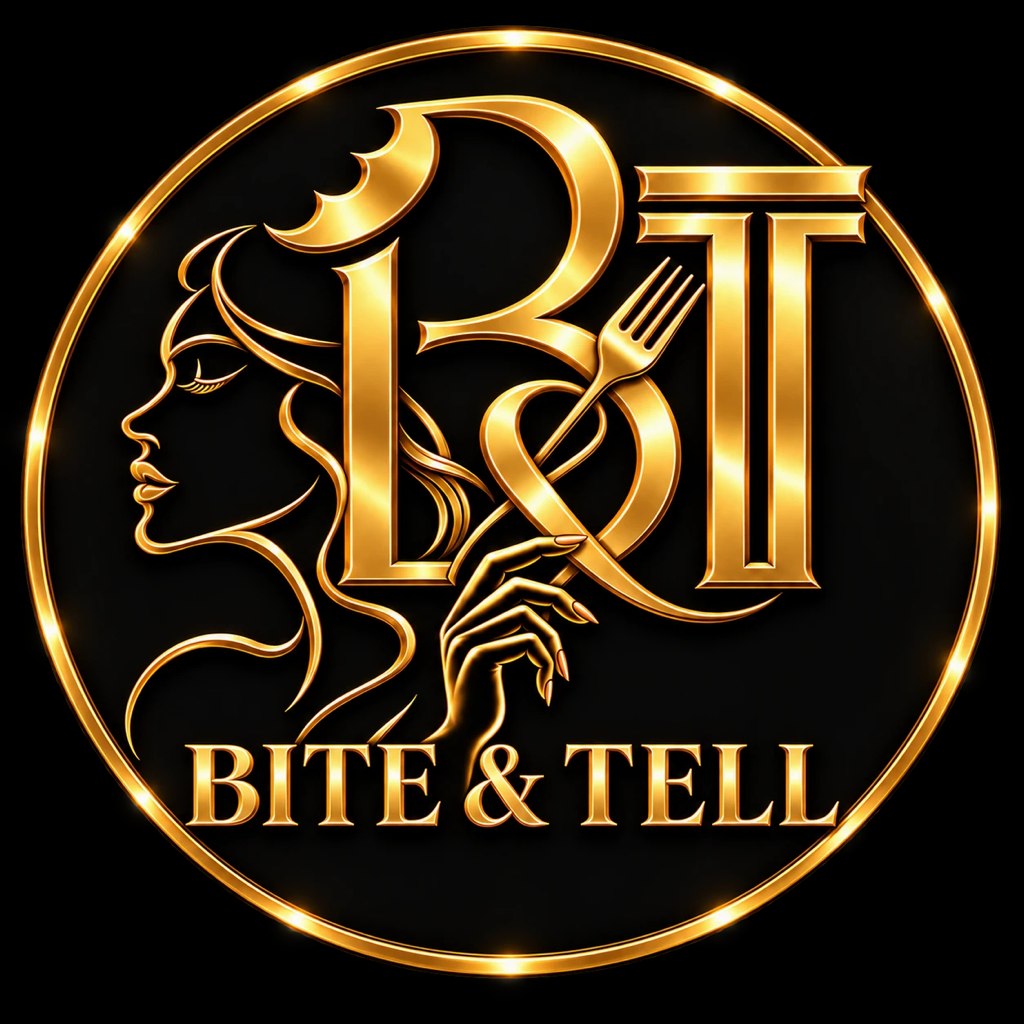
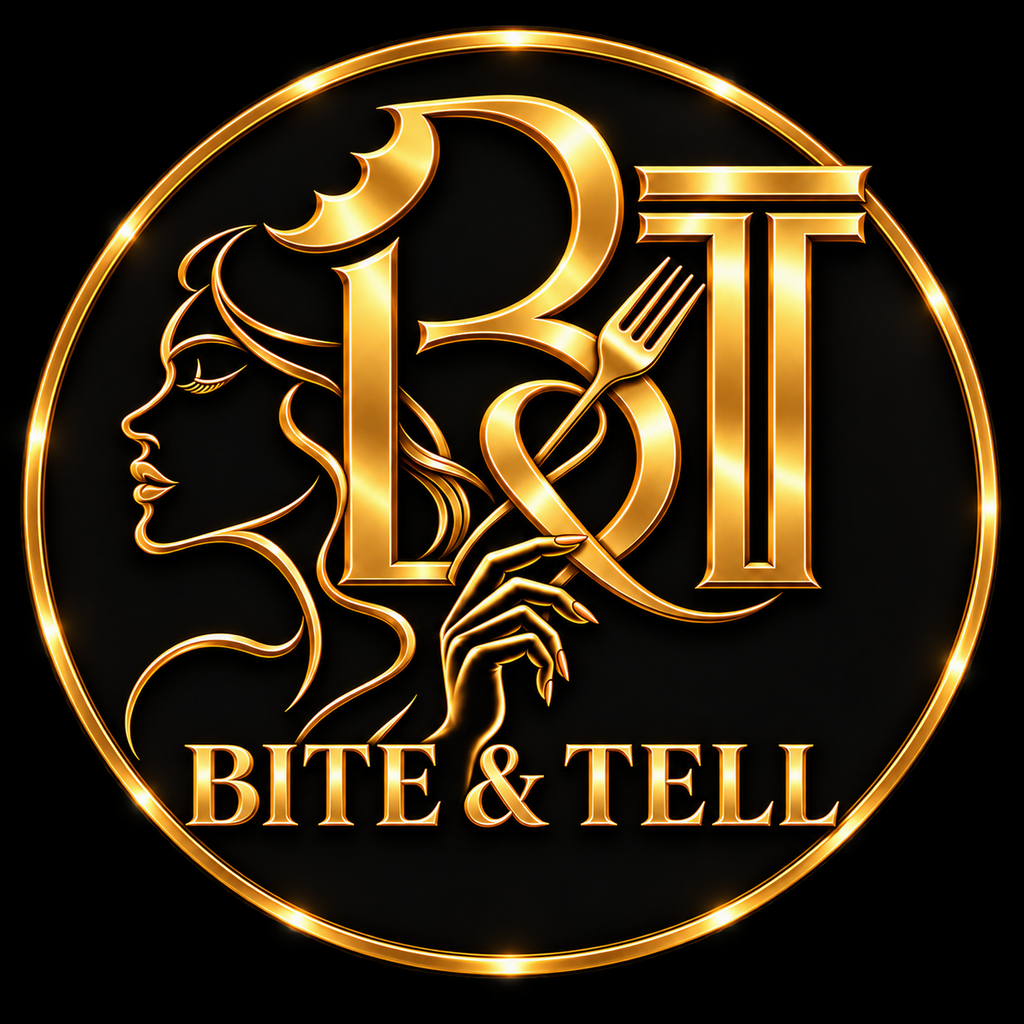
fix(לוגו): הייצוא של שקד כמות שהוא · בלי המרת צבע
שקד: ״כן עדכנתי את הלוגו בתיקייה המתאימה אז תעדכן אותו איפה
שצריך גם בשרתים״.

⚠ **תיקון למה שאמרתי** · טענתי שהלוגו בעמוד הנחיתה נושא רקע
שחמט. מדדתי — הוא לא. אפס פיקסלים אפורים בהירים באזור האטום,
והפינות שקופות לגמרי. מה שהיה שם זו פשוט **הגרסה הקודמת של
הלוגו**, 180×176, בלי היד ובלי הניצוצות. הוחלפה בחדשה.

⚠ **מה שהיה בתיקייה לא היה הקובץ שלה** · הוא עבר דרך המרת
sRGB (נשאר iCCP בקובץ) ששינתה 96% מהפיקסלים הנראים בכ-5
יחידות לערוץ. קטן לעין, אבל לא מה שהיא ייצאה. עכשיו:

  mobile/assets/photos/logo.png        זהה בייט-בבייט
  design/app/assets/originals/logo.png זהה בייט-בבייט

⚠ **כל הנגזרות נבנו מחדש מאותו מקור** · הסמל, ה-favicon,
האנדרואיד והמונוכרום. הגאומטריה לא זזה — 654×636 מול
654×635 קודם, הפרש של פיקסל אחד שהוא סף החלקת הקצוות.
הקטנה עם אלפא מוכפל מראש, כדי שטבעת הזהב לא תקבל הילה כהה.

⚠ **icon.png נשאר אטום** · colorType=2, בלי ערוץ אלפא. אפל
דוחה סמל עם שקיפות.

⚠ הקופסה של הלוגו במסך הכניסה הייתה 96×94 כי הקובץ הישן היה
180×176. הייצוא ריבועי, והקופסה חזרה לריבוע.

נבדק: הנכס ב-dist זהה בייט-בבייט לייצוא של שקד.

diff --git a/mobile/src/screens/LoginScreen.tsx b/mobile/src/screens/LoginScreen.tsx
@@ -796,8 +796,10 @@ const s = StyleSheet.create({
    * השם 21 → 26, והכיתוב עבר לדיו הרך במשקל 400.
    */
   brandBlock: { alignItems: 'center', marginBottom: 14 },
-  /* ⚠ המידות של הקובץ הן 180×176 · היחס נשמר כדי שלא יימתח */
-  logo: { width: 96, height: 94, marginBottom: 8 },
+  /* ⚠ **הלוגו החדש ריבועי · 23 בספטמבר 2026** · הקובץ הקודם היה
+     180×176 ולכן הקופסה כאן הייתה 96×94. הייצוא של שקד הוא
+     1254×1254, והקופסה חזרה להיות ריבוע כדי שלא יישאר פס ריק. */
+  logo: { width: 96, height: 96, marginBottom: 8 },
   /* ⚠ שם המשפחה ולא 'Anton' · ב-React Native כל משקל הוא משפחה נפרדת */
   brand: { fontFamily: DISPLAY_FAMILY, fontSize: 26, letterSpacing: 1.3, color: surface.ink },
   brandSub: { fontSize: 13, fontWeight: '400', color: surface.inkSoft, marginTop: 3 },
